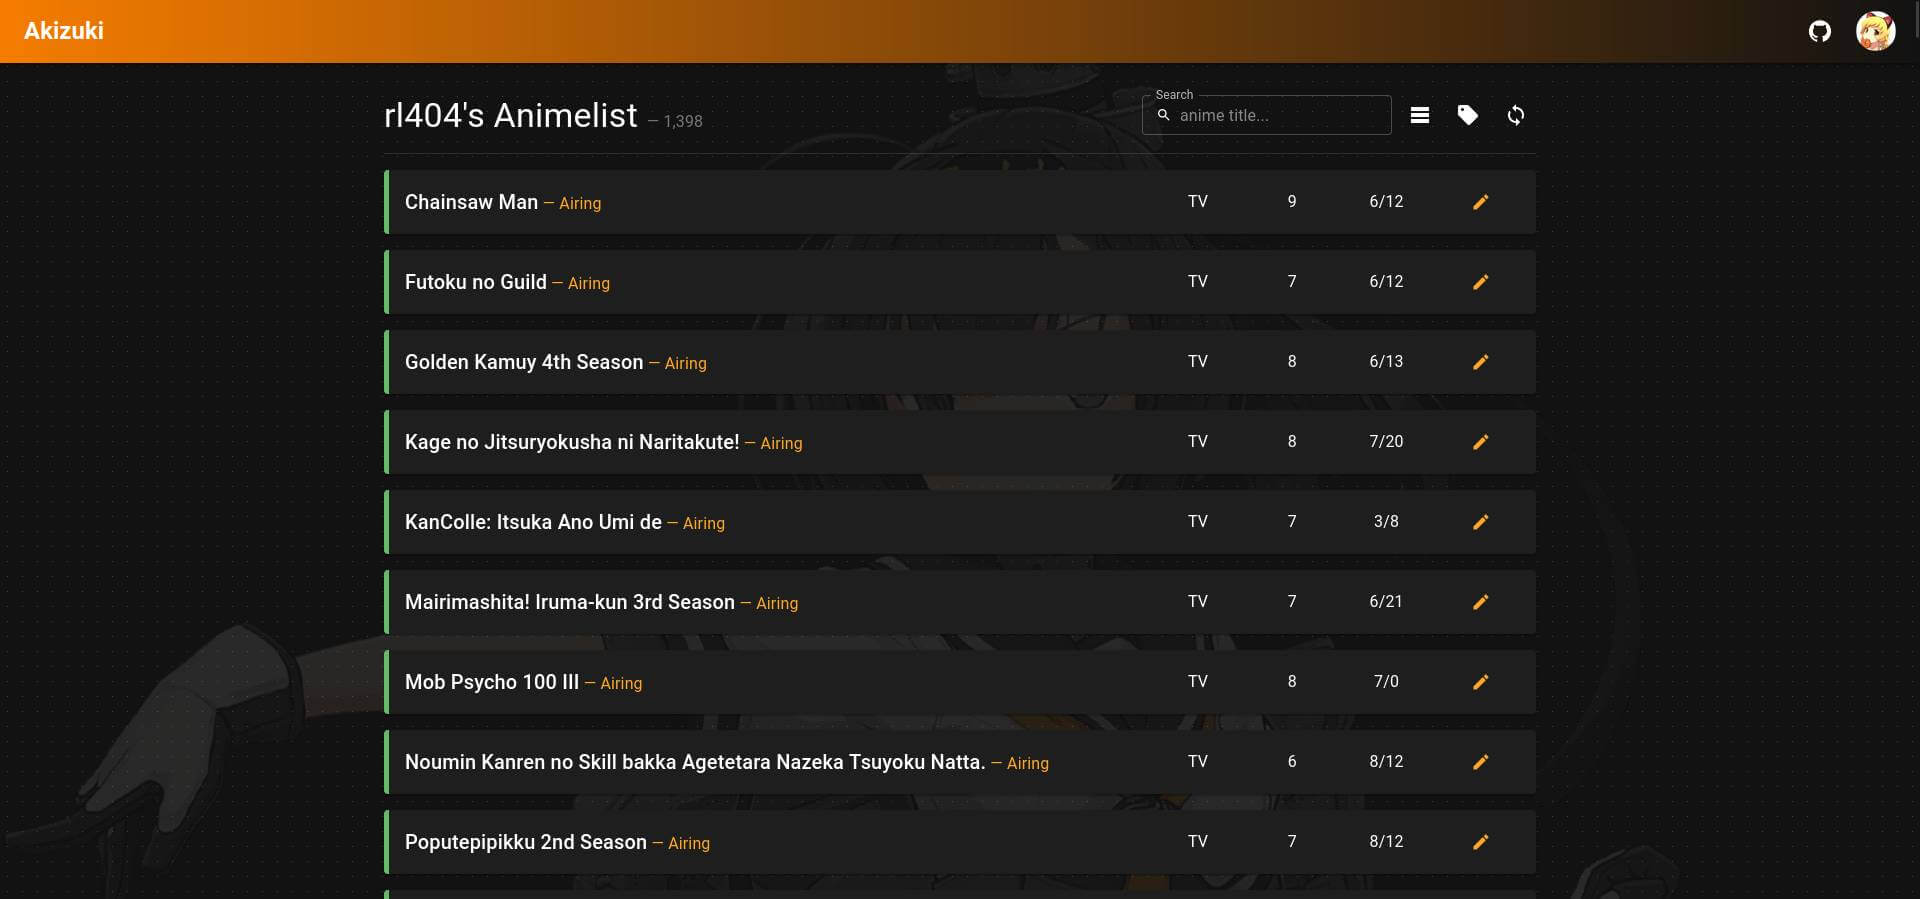
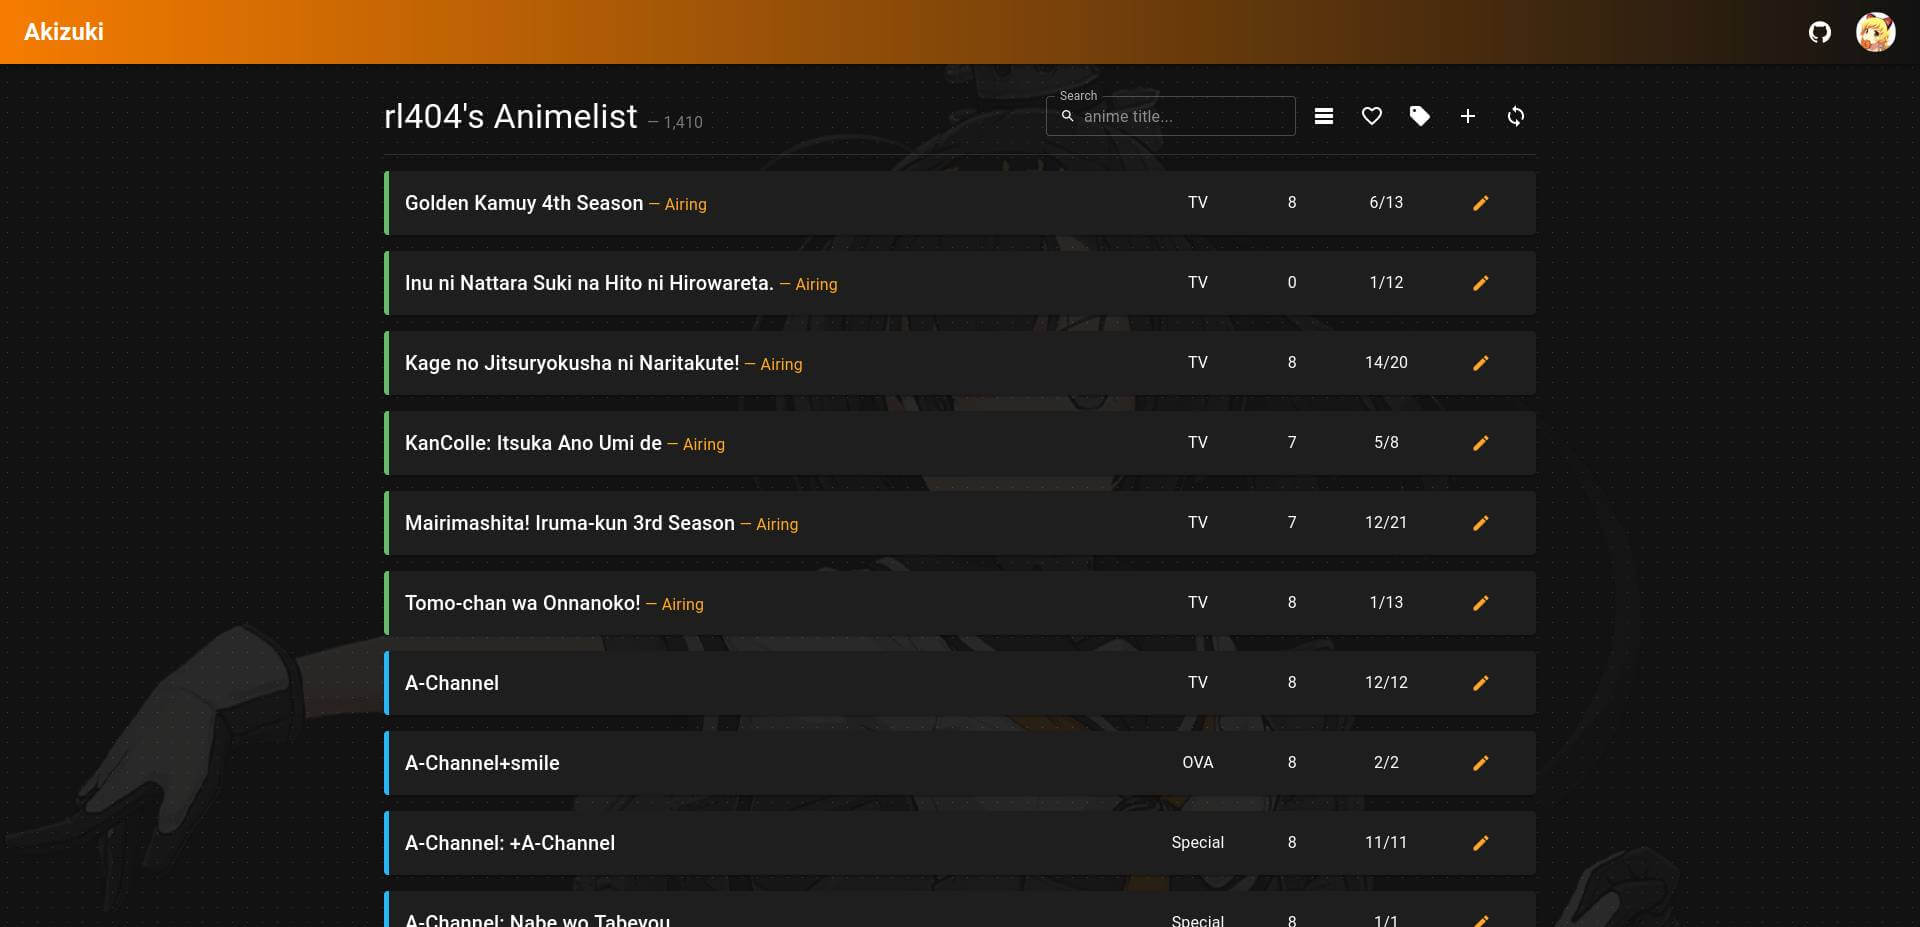
docs: update readme & gallery

diff --git a/README.md b/README.md
@@ -11,11 +11,12 @@ _Akizuki_ is a website where you can view and edit your [MyAnimeList](https://my
 
 - Login with Oauth2
 - View your profile
-- View your anime & manga list
+- View & add your anime & manga list
     - Search
     - Grid/list layout
     - Quick edit score
     - Quick edit episode/chapter/volume
+    - NSFW toggle
     - Edit form
         - Watching/reading status
         - Score
@@ -32,6 +33,7 @@ _Akizuki_ is a website where you can view and edit your [MyAnimeList](https://my
             - Airing/publishing status
             - Synopsis
             - Genres
+        - Delete
 - Tags editor for custom scoring formula
     - Test the formula
     - Tags preview

diff --git a/gallery.md b/gallery.md
@@ -31,3 +31,11 @@
 ![edit 2](https://raw.githubusercontent.com/rl404/akizuki/master/public/images/edit-form-2.jpg)
 
 ![edit 3](https://raw.githubusercontent.com/rl404/akizuki/master/public/images/edit-form-3.jpg)
+
+## Add Anime (Card)
+
+![search card](https://raw.githubusercontent.com/rl404/akizuki/master/public/images/search-card.jpg)
+
+## Add Anime (List)
+
+![search list](https://raw.githubusercontent.com/rl404/akizuki/master/public/images/search-list.jpg)
